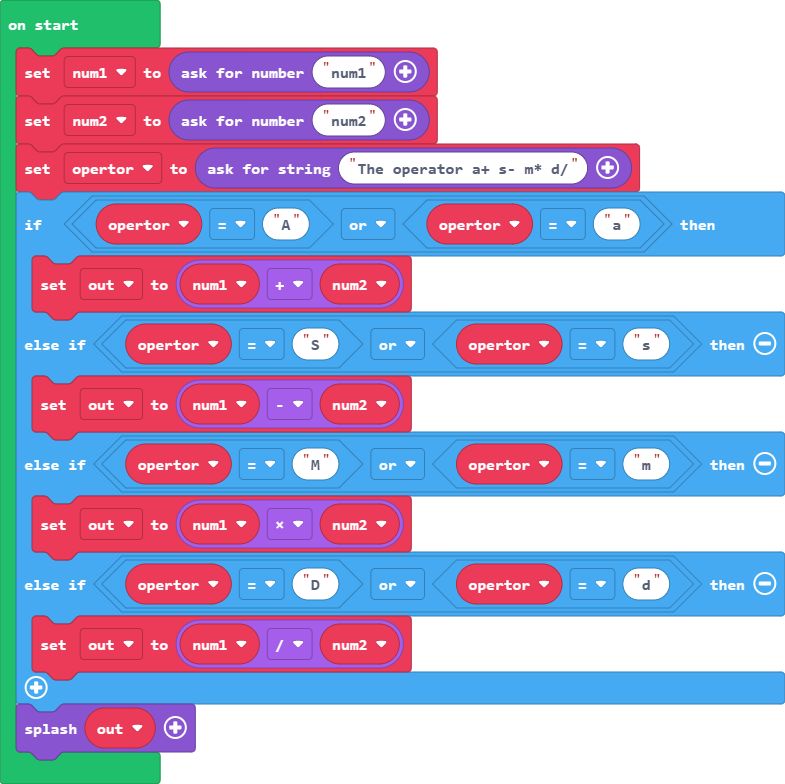
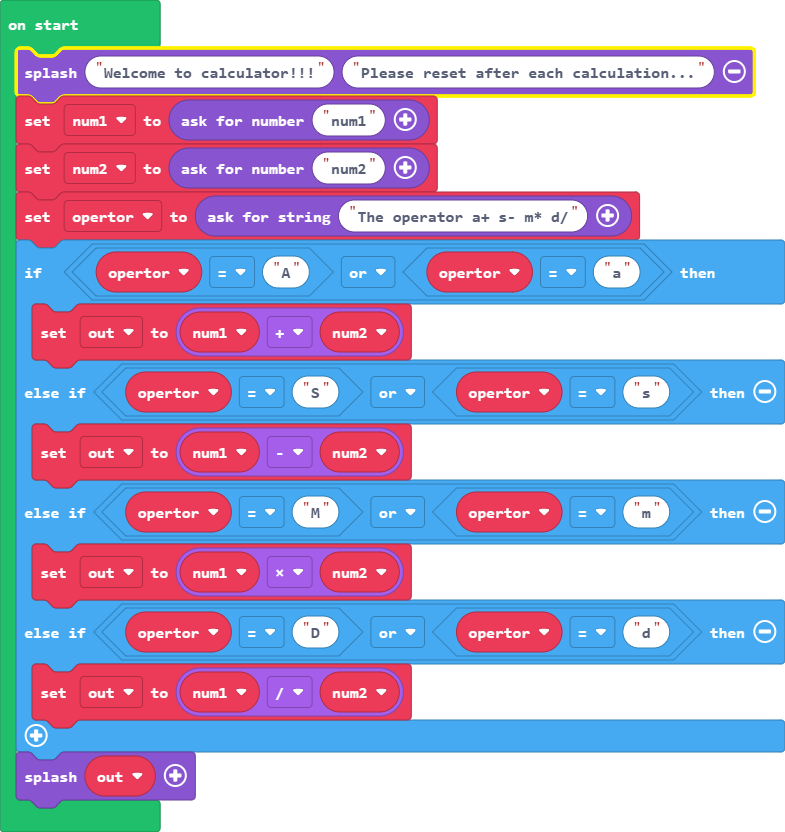
=)

diff --git a/main.ts b/main.ts
@@ -1,4 +1,5 @@
 let out = 0
+game.splash("Welcome to calculator!!!", "Please reset after each calculation...")
 let num1 = game.askForNumber("num1")
 let num2 = game.askForNumber("num2")
 let opertor = game.askForString("The operator a+ s- m* d/")
